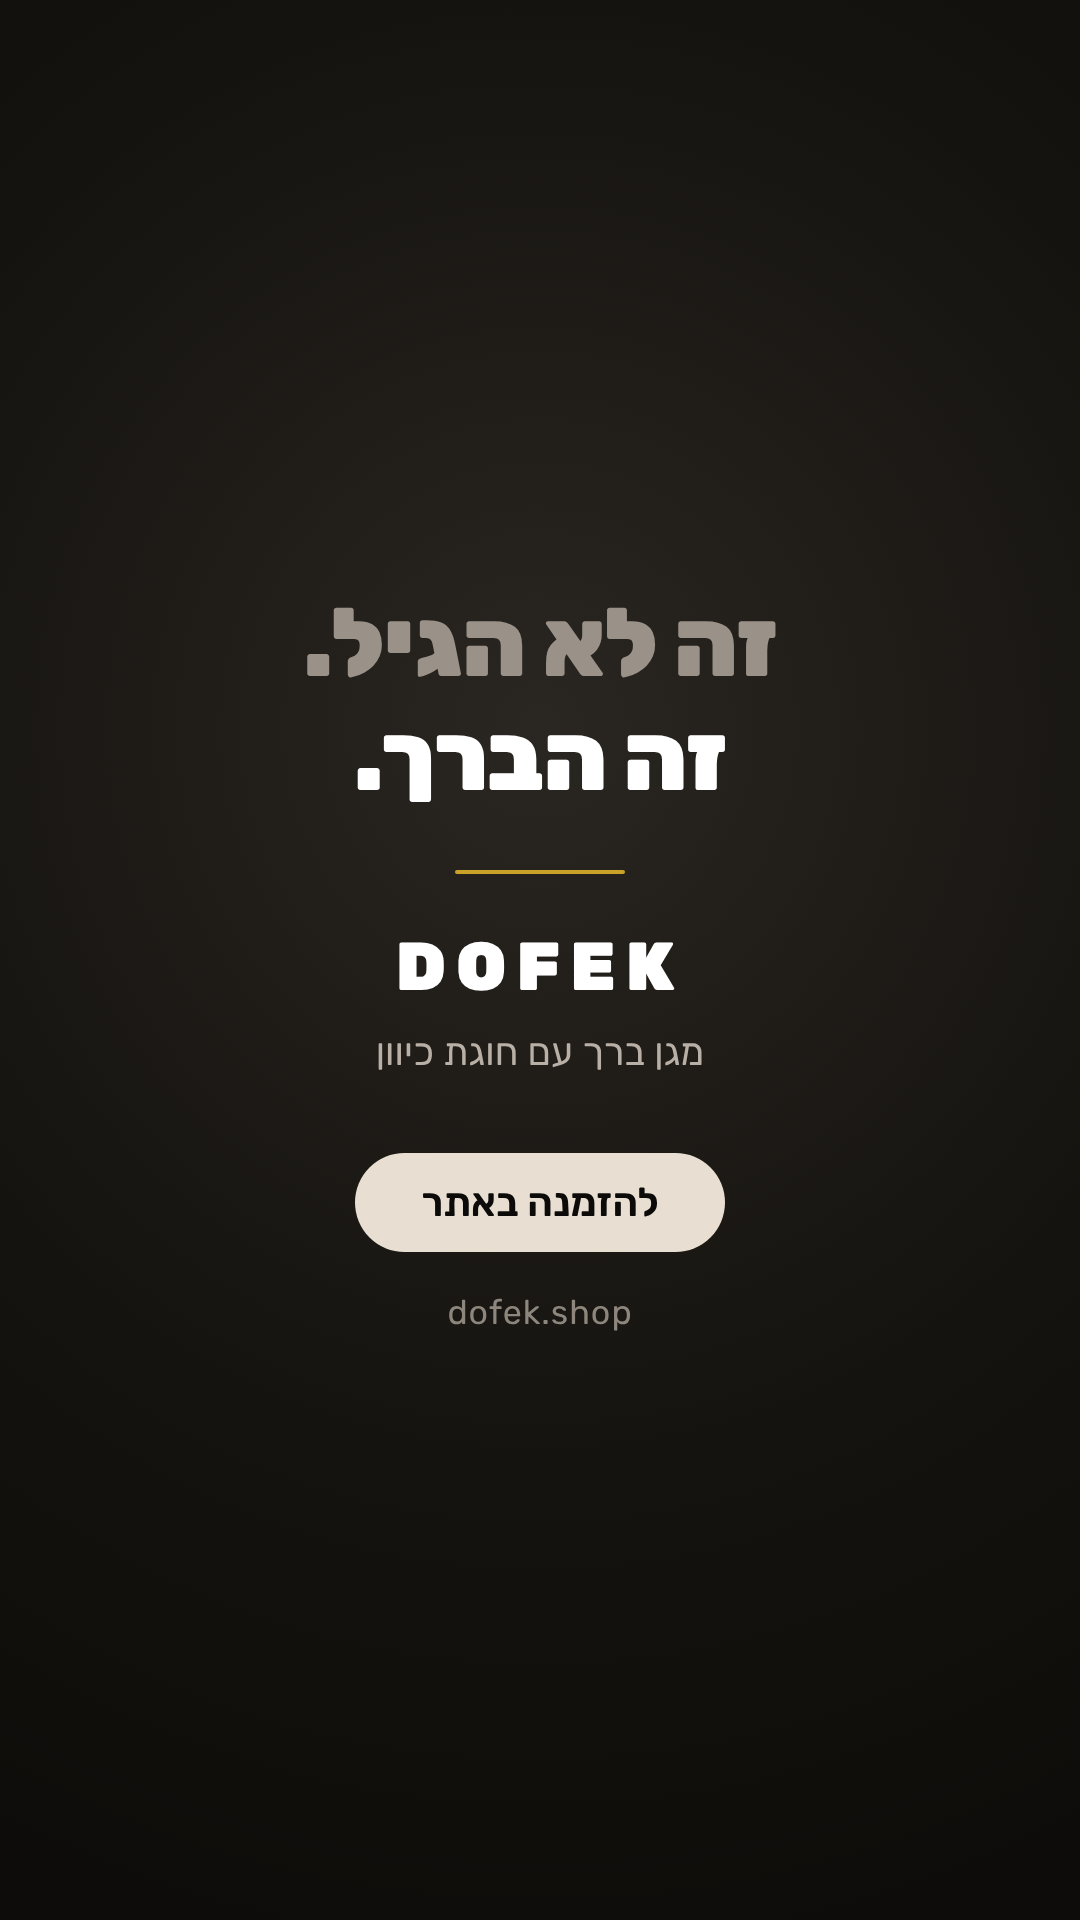
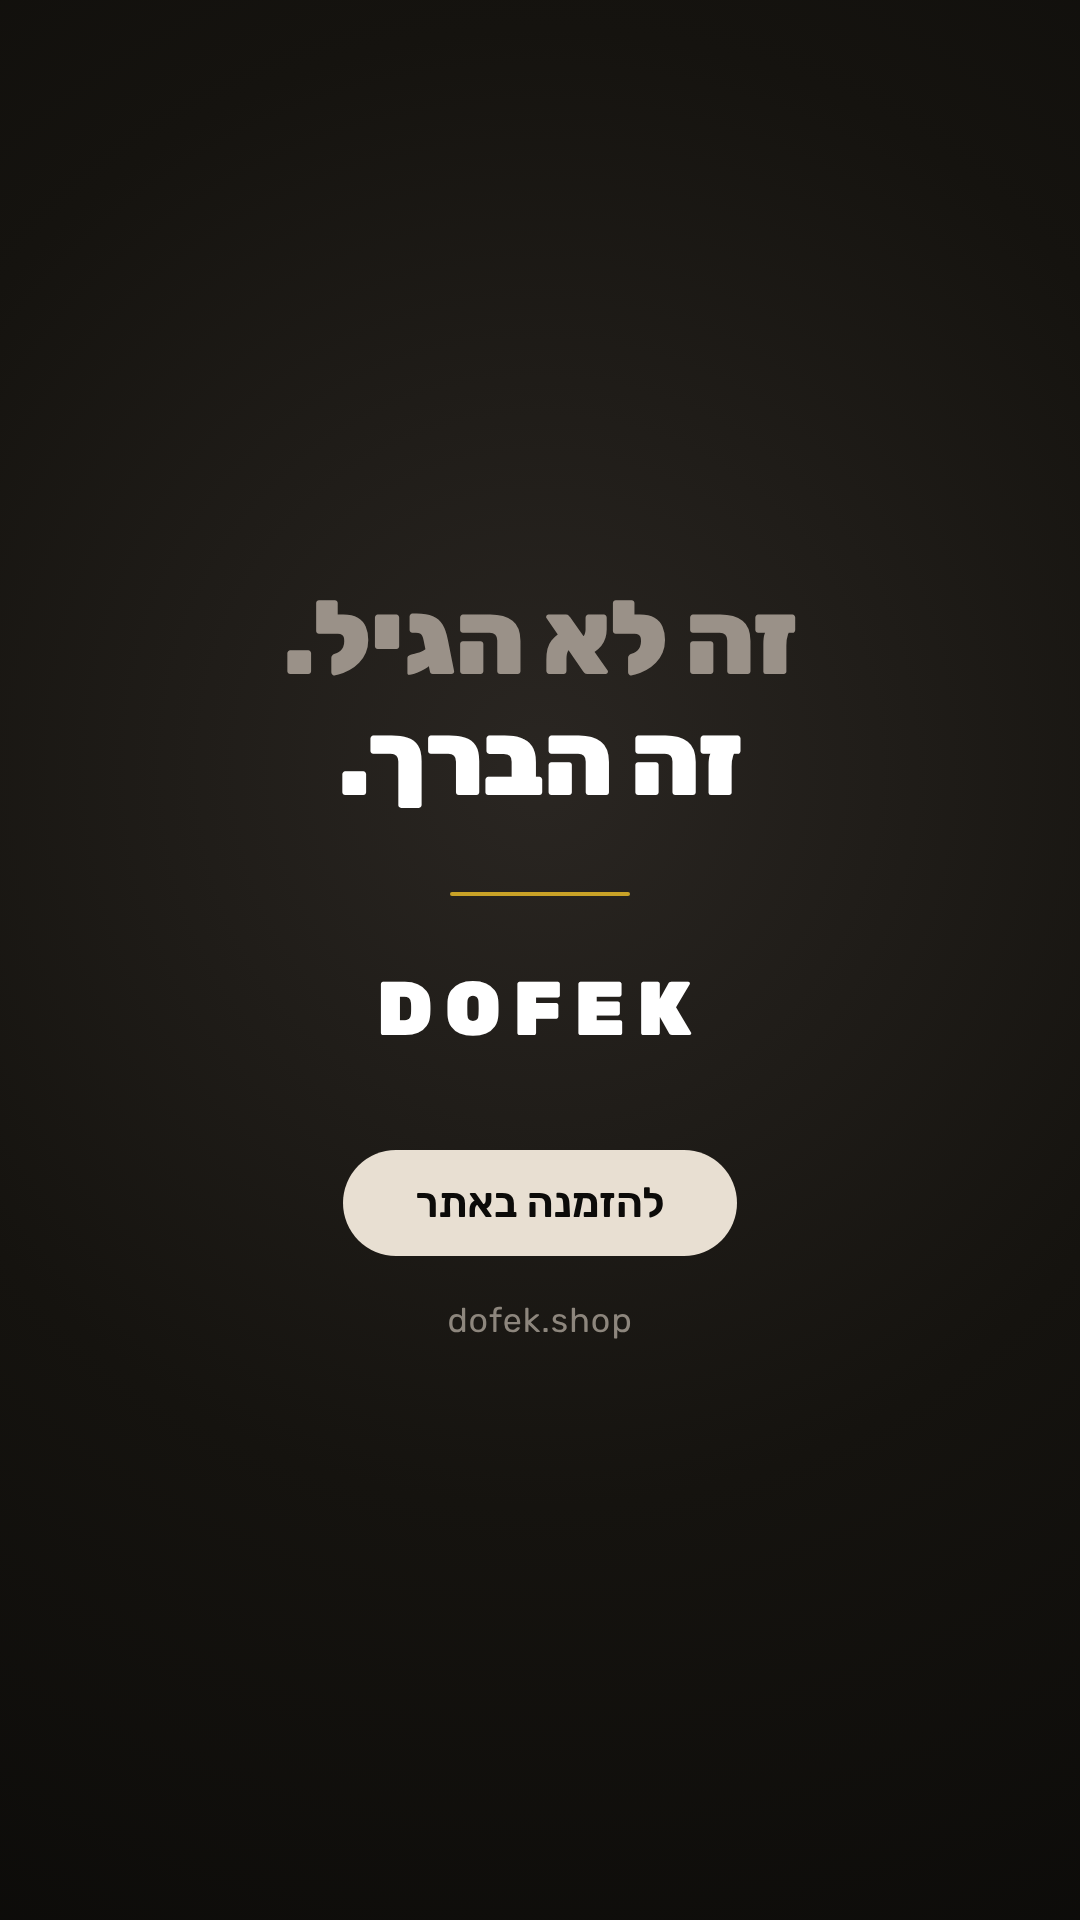
DOFEK: drop the spec line from the end card
The end card carried a product-spec line under the logo. That is
catalogue copy, not advertising: it explains a feature nobody
asked about at the moment the viewer is already decided. The card
now carries only the claim, the brand, the CTA and the domain.

Claude-Session: https://claude.ai/code/session_01L77BxqNt87QLWb9joW6UGc

diff --git a/variants/dofek/ads/itzik-film/end.js b/variants/dofek/ads/itzik-film/end.js
@@ -5,24 +5,22 @@ const html = `<!doctype html><html><head><meta charset="utf-8">
  html,body{margin:0;padding:0;width:1080px;height:1920px;background:#11100e;
    font-family:'Rubik',sans-serif;color:#fff;overflow:hidden;}
  .bg{position:absolute;inset:0;background:
-   radial-gradient(120% 70% at 50% 38%, #2a2622 0%, #15130f 55%, #0c0b09 100%);}
+   radial-gradient(120% 70% at 50% 40%, #2a2622 0%, #15130f 55%, #0c0b09 100%);}
  .c{position:absolute;inset:0;display:flex;flex-direction:column;align-items:center;
    justify-content:center;text-align:center;direction:rtl;padding:0 90px;}
- .claim{font-weight:900;font-size:96px;line-height:1.18;letter-spacing:-1px;}
+ .claim{font-weight:900;font-size:104px;line-height:1.16;letter-spacing:-1px;}
  .claim .dim{color:#9a9188;}
- .rule{width:170px;height:4px;background:#c9a227;border-radius:2px;margin:56px 0 52px;}
- .brand{font-weight:900;font-size:68px;letter-spacing:10px;direction:ltr;}
- .sub{font-weight:400;font-size:38px;color:#b8b0a6;margin-top:22px;direction:rtl;}
- .cta{margin-top:78px;font-weight:600;font-size:40px;color:#0c0b09;
-   background:#e8dfd2;border-radius:999px;padding:26px 66px;direction:rtl;}
- .dom{margin-top:40px;font-weight:400;font-size:34px;color:#8d867d;direction:ltr;letter-spacing:1px;}
+ .rule{width:180px;height:4px;background:#c9a227;border-radius:2px;margin:72px 0 68px;}
+ .brand{font-weight:900;font-size:76px;letter-spacing:12px;direction:ltr;}
+ .cta{margin-top:96px;font-weight:600;font-size:42px;color:#0c0b09;
+   background:#e8dfd2;border-radius:999px;padding:28px 72px;direction:rtl;}
+ .dom{margin-top:44px;font-weight:400;font-size:34px;color:#8d867d;direction:ltr;letter-spacing:1px;}
 </style></head><body>
 <div class="bg"></div>
 <div class="c">
   <div class="claim"><span class="dim">זה לא הגיל.</span><br>זה הברך.</div>
   <div class="rule"></div>
   <div class="brand">DOFEK</div>
-  <div class="sub">מגן ברך עם חוגת כיוון</div>
   <div class="cta">להזמנה באתר</div>
   <div class="dom">dofek.shop</div>
 </div></body></html>`;

diff --git a/variants/dofek/ads/itzik-film/README.md b/variants/dofek/ads/itzik-film/README.md
@@ -92,3 +92,22 @@ mix.sh   דיאלוג + קריינות + מוזיקה  ->  dofek-itzik-FINAL.mp4
                         ───────
                           ~201
 ```
+
+## כרטיס הסיום · מה ירד ממנו
+
+הגרסה הראשונה נשאה את השורה «מגן ברך עם חוגת כיוון» מתחת ללוגו.
+**זו שורה ממפרט מוצר, לא מפרסומת.** היא מסבירה פיצ'ר שאף אחד לא
+שאל עליו, בשנייה שבה הצופה כבר משוכנע או כבר איבדנו אותו. בסרטון
+רגשי כרטיס הסיום סוגר את הטענה — הוא לא מתחיל לפרט.
+
+הכרטיס עכשיו נושא ארבעה דברים בלבד:
+
+```
+זה לא הגיל. זה הברך.     הטענה
+DOFEK                     השם
+להזמנה באתר               הקריאה לפעולה
+dofek.shop                איפה
+```
+
+**הכלל:** מפרט טכני שייך לעמוד המוצר, לא לקריאייטיב. אם אפשר
+להוריד שורה מכרטיס סיום בלי לאבד כלום — היא לא הייתה צריכה להיות שם.
